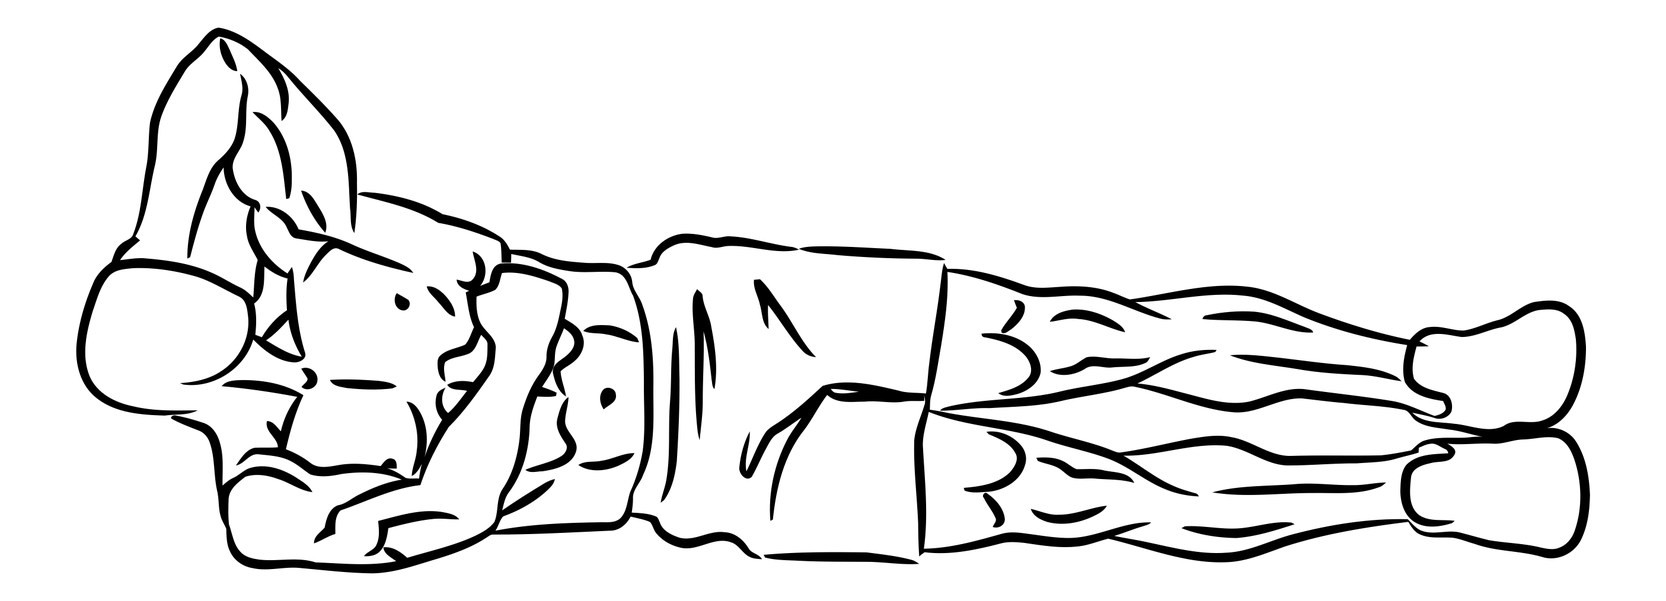
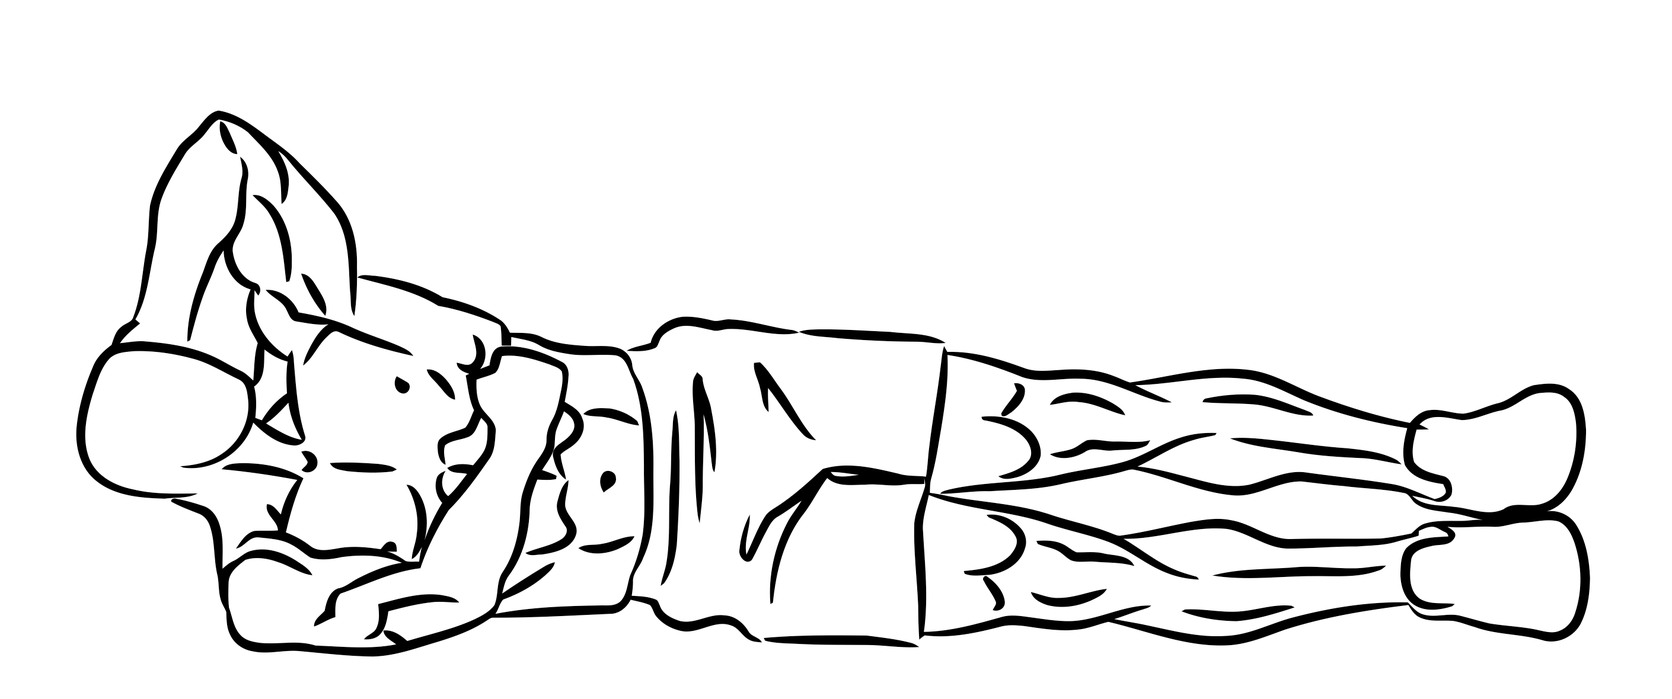
fix(technique): позы снова сменяются и помещаются в кадр

Changed region(s): [[0.031, 0.0305, 0.9598, 0.9773]]

diff --git a/src/content/technique.js b/src/content/technique.js
@@ -6,8 +6,7 @@
 //
 // Кадры — штриховые рисунки Everkinetic (CC BY-SA 4.0), хранятся в
 // public/technique/ (там же SOURCES.md с атрибуцией). Порядок кадров — по ходу
-// движения, подпись — поза на кадре. Для сопоставимых ракурсов кадры сменяются
-// мягким растворением. separatePoses оставляет обе фазы рядом.
+// движения, подпись — поза на кадре. Кадры сменяются мягким растворением.
 //
 // Мышцы — слаги lib/muscles.js. Состав и длины списков держит technique.test.js.
 // ============================================================================
@@ -24,8 +23,8 @@ const ek = (slug, a, b, extension = 'svg') => [
   { file: `${slug}-2.${extension}`, caption: b },
 ]
 
-// Отдельная версия URL обновляет только исправленные PNG в офлайн-кэше CacheFirst.
-const aligned = (slug, a, b) => ek(slug, a, b, 'png').map(frame => ({ ...frame, revision: 2 }))
+// Отдельная версия URL обновляет только исправленные кадры в офлайн-кэше CacheFirst.
+const aligned = (slug, a, b, extension = 'png') => ek(slug, a, b, extension).map(frame => ({ ...frame, revision: 2 }))
 
 export const TECHNIQUE = {
   'seated-dumbbell-press': {
@@ -127,8 +126,7 @@ export const TECHNIQUE = {
     primary: ['glute_max'],
     secondary: ['quads', 'adductors'],
     equipment: 'Одна гантель',
-    separatePoses: true,
-    frames: ek('plie-squat', 'Ноги выпрямлены', 'Бёдра опущены', 'png'),
+    frames: ek('plie-squat', 'Ноги выпрямлены', 'Бёдра опущены'),
     steps: [
       'Поставьте ноги шире плеч и разверните носки наружу на удобный угол. Удерживайте гантель двумя руками между ног.',
       'Сгибая ноги, опустите таз между бёдрами. Колени направляйте туда же, куда носки.',
@@ -204,8 +202,7 @@ export const TECHNIQUE = {
     primary: ['glute_med'],
     secondary: [],
     equipment: 'Коврик',
-    separatePoses: true,
-    frames: ek('side-lying-leg-raise', 'Ноги вместе', 'Верхняя нога поднята', 'png'),
+    frames: aligned('side-lying-leg-raise', 'Ноги вместе', 'Верхняя нога поднята'),
     steps: [
       'Лягте на бок и удобно поддержите голову. Выпрямите ноги, расположите плечи и таз друг над другом.',
       'Плавно поднимите верхнюю ногу в сторону, сохраняя таз неподвижным.',
@@ -1359,7 +1356,6 @@ export const TECHNIQUE = {
     primary: ['glute_max'],
     secondary: ['hamstrings'],
     equipment: 'Нижний блок кроссовера, манжета на лодыжку',
-    separatePoses: true,
     frames: ek('cable-kickback', 'Ноги вместе', 'Нога отведена'),
     steps: [
       'Наденьте манжету, встаньте лицом к блоку, держитесь за стойку.',
@@ -1477,8 +1473,7 @@ export const TECHNIQUE = {
     primary: ['core'],
     secondary: ['abs_rectus', 'lats'],
     equipment: 'Ролик для пресса (на рисунке — штанга с блинами, движение то же)',
-    separatePoses: true,
-    frames: ek('ab-rollout', 'На коленях', 'Тело вытянуто'),
+    frames: aligned('ab-rollout', 'На коленях', 'Тело вытянуто', 'svg'),
     steps: [
       'Встаньте на колени, ролик под плечами на прямых руках.',
       'Напрягите пресс и катите ролик вперед, вытягиваясь.',

diff --git a/e2e/technique.spec.js b/e2e/technique.spec.js
@@ -4,6 +4,7 @@ import { enterPin } from './helpers.js'
 // Координаты неподвижных деталей на сцене 320 × 224. Цвет и толщина штриха
 // слегка различаются между позами, поэтому допускаем один пиксель вокруг линии.
 const anchors = {
+  'plie-squat': [107, 204, 225, 222], // стопы в обеих полных фазах
   'standing-barbell-press': [134, 172, 198, 223], // стопы
   'seated-dumbbell-press': [101, 165, 223, 222], // низ скамьи и стопы
   'machine-shoulder-press': [94, 157, 237, 222],
@@ -151,4 +152,47 @@ test('подсказка по технике: карточка и пикер, д
   await expect(picker.getByPlaceholder('Поиск по названию…')).toHaveValue('жим лежа')
   await picker.getByRole('button', { name: 'закрыть' }).click()
   await expect(page.locator('.exercise-card')).toHaveCount(1)
+})
+
+test('на мобильном обе фазы плие целиком помещаются в область показа', async ({ page, context }) => {
+  await page.setViewportSize({ width: 393, height: 793 })
+  await context.route(/supabase\.co/, route => route.abort())
+  await page.goto('/kachalka-app/')
+  const name = 'Приседания плие'
+  const user = await page.evaluate(async name => {
+    const { seedE2E } = await import('/kachalka-app/src/test/e2eSeed.js')
+    const exercise = { id: 'e2e-plie', name, muscle_group: 'ноги', metric: 'weight' }
+    const user = await seedE2E({ exercises: [exercise] })
+    const { writeDraft } = await import('/kachalka-app/src/lib/draftStore.js')
+    writeDraft(`workout_draft_new_${user.id}`, [{ exercise, sets: [{ weight: 10, reps: 5, _k: 's1' }] }])
+    return user
+  }, name)
+  await page.reload()
+  await page.getByRole('button', { name: user.name }).click()
+  await enterPin(page, user.pin)
+  await page.getByRole('button', { name: 'Записать тренировку' }).click()
+
+  for (const preference of ['no-preference', 'reduce']) {
+    await page.emulateMedia({ reducedMotion: preference })
+    await page.getByRole('button', { name: 'Как выполнять: ' + name }).click()
+    const sheet = page.getByRole('dialog', { name })
+    if (preference === 'no-preference') {
+      await expect(sheet.getByRole('img', { name: /Бёдра опущены/ })).toBeVisible()
+      await sheet.getByRole('button', { name: 'Остановить смену кадров' }).click()
+    }
+    const frames = sheet.locator('.technique-paper img')
+    await expect(frames).toHaveCount(2)
+    for (const img of await frames.all()) {
+      const fits = await img.evaluate(async img => {
+        await img.decode()
+        const box = img.getBoundingClientRect()
+        const paper = img.parentElement.getBoundingClientRect()
+        return box.width > 0 && box.height > 0 && box.top >= paper.top && box.left >= paper.left
+          && box.bottom <= paper.bottom + 1 && box.right <= paper.right + 1
+          && getComputedStyle(img).objectFit === 'contain'
+      })
+      expect(fits).toBe(true)
+    }
+    await sheet.getByRole('button', { name: 'закрыть' }).click()
+  }
 })

diff --git a/landing/quick-start/index.html b/landing/quick-start/index.html
@@ -130,7 +130,7 @@
           <h3>Как выполнять упражнение</h3>
           <p>В справочнике тренировки слева от названия упражнения и в открытой карточке тренировки сразу за названием есть кнопка <strong>«i»</strong> — она открывает подсказку: рисунки начала и конца движения, какие мышцы работают и что нужно, шаги, на что обратить внимание и частые ошибки. Рисунки сменяют друг друга сами; кнопкой справа их можно остановить, а нажатием на подпись — выбрать нужную позу. Подсказка ничего не меняет в тренировке: закрой ее — и продолжай с того же места.</p>
           <p>В общем справочнике есть 73 карточки с подсказками. Например, у балансборда описаны стойка и мышцы, которые помогают удерживать равновесие. Текст открывается и без интернета, рисунки — после первого просмотра с сетью.</p>
-          <p><strong>Источники рисунков.</strong> Рисунки в подсказках — проект Everkinetic (автор Greg Priday), github.com/everkinetic/data, по лицензии Creative Commons BY-SA 4.0 (creativecommons.org/licenses/by-sa/4.0). В движущихся парах позы выровнены по опоре. Если ракурсы различаются или опора не видна, обе позы показаны рядом. У гакк-приседаний кадры повёрнуты, чтобы показать наклон салазок. Тексты подсказок написаны для kachalka-app.</p>
+          <p><strong>Источники рисунков.</strong> Рисунки в подсказках — проект Everkinetic (автор Greg Priday), github.com/everkinetic/data, по лицензии Creative Commons BY-SA 4.0 (creativecommons.org/licenses/by-sa/4.0). В движущихся парах позы выровнены по опоре. При включенной настройке «Уменьшение движения» обе позы показаны рядом. У гакк-приседаний кадры повёрнуты, чтобы показать наклон салазок. Тексты подсказок написаны для kachalka-app.</p>
           <h3>Запись подходов</h3>
           <p>Во время тренировки kachalka-app показывает предыдущие результаты и может предложить нагрузку на сегодня.</p>
           <p>Автопрогрессия умеет работать по нескольким стратегиям:</p>

diff --git a/src/components/exercises/TechniqueSheet.test.jsx b/src/components/exercises/TechniqueSheet.test.jsx
@@ -86,18 +86,22 @@ describe('TechniqueSheet', () => {
     expect(await screen.findByAltText('Жим лежа со штангой: Руки выпрямлены')).toBeInTheDocument()
     expect(screen.getByAltText('Жим лежа со штангой: Гриф у груди')).toBeInTheDocument()
     expect(screen.queryByRole('button', { name: /смену кадров/ })).toBeNull()
-  })
-
-  it('позы с разным ракурсом показаны рядом и при обычных настройках движения', async () => {
-    mockReducedMotion(false)
-    render(<TechniqueSheet slug="ab-rollout" name="Ролик" onClose={vi.fn()} />)
-    expect(await screen.findByAltText('Ролик: На коленях')).toBeInTheDocument()
-    expect(screen.getByAltText('Ролик: Тело вытянуто')).toBeInTheDocument()
-    expect(screen.queryByRole('button', { name: /смену кадров/ })).toBeNull()
-    fireEvent.error(screen.getByAltText('Ролик: Тело вытянуто'))
+    fireEvent.error(screen.getByAltText('Жим лежа со штангой: Гриф у груди'))
     expect(screen.queryByRole('img')).toBeNull()
     expect(screen.getByText('Частые ошибки')).toBeInTheDocument()
   })
+
+  it.each(['ab-rollout', 'side-lying-leg-raise', 'cable-kickback', 'plie-squat'])(
+    '%s показывает обе фазы по очереди', async (slug) => {
+      mockReducedMotion(false)
+      vi.useFakeTimers({ toFake: ['setInterval', 'clearInterval'] })
+      render(<TechniqueSheet slug={slug} name={slug} onClose={vi.fn()} />)
+      await screen.findByRole('button', { name: 'Остановить смену кадров' })
+      const first = screen.getByRole('img').getAttribute('src')
+      await act(async () => { vi.advanceTimersByTime(1200) })
+      expect(screen.getByRole('img').getAttribute('src')).not.toBe(first)
+    },
+  )
 
   it('кадр не загрузился — блок кадров пропадает, текст остается', async () => {
     mockReducedMotion(false)

diff --git a/src/components/exercises/TechniqueSheet.jsx b/src/components/exercises/TechniqueSheet.jsx
@@ -46,7 +46,7 @@ export default function TechniqueSheet({ slug, name, onClose }) {
         )}
         {card && (
           <>
-            {card.frames.length > 0 && <TechniqueFrames frames={card.frames} name={name} separatePoses={card.separatePoses} />}
+            {card.frames.length > 0 && <TechniqueFrames frames={card.frames} name={name} />}
 
             <section className="technique-sec">
               <h3>Мышцы и оборудование</h3>
@@ -122,23 +122,22 @@ function prefersReducedMotion() {
 // Два кадра «по ходу движения» с одного ракурса: смена — мягким растворением
 // (index.css .technique-stage), с подписью позы. При reduced-motion — оба кадра рядом,
 // без смены. Пауза останавливает смену; выбор позы — тоже пауза.
-function TechniqueFrames({ frames, name, separatePoses }) {
+function TechniqueFrames({ frames, name }) {
   const [reduced] = useState(prefersReducedMotion)
   const [idx, setIdx] = useState(0)
-  const staticView = reduced || separatePoses
-  const [playing, setPlaying] = useState(!staticView)
+  const [playing, setPlaying] = useState(!reduced)
   const [failed, setFailed] = useState(false)
   const base = import.meta.env.BASE_URL ?? '/'
 
   useEffect(() => {
-    if (!playing || staticView) return undefined
+    if (!playing || reduced) return undefined
     const t = setInterval(() => setIdx((i) => (i + 1) % frames.length), FRAME_MS)
     return () => clearInterval(t)
-  }, [playing, staticView, frames.length])
+  }, [playing, reduced, frames.length])
 
   if (failed) return null
 
-  if (staticView) {
+  if (reduced) {
     return (
       <div className="technique-frames technique-frames--static">
         {frames.map((f) => (

diff --git a/src/index.css b/src/index.css
@@ -4886,8 +4886,8 @@ img.has-img, .avatar-lightbox-img { -webkit-touch-callout: none; -webkit-user-dr
   flex: none; width: 44px; height: 44px; display: grid; place-items: center;
   border: 0; border-radius: var(--r-md); background: var(--surface-2); color: var(--text); cursor: pointer;
 }
-.technique-frames--static { display: grid; grid-template-columns: 1fr 1fr; gap: 8px; }
-.technique-frames--static .technique-paper { height: 180px; padding: 6px; }
+.technique-frames--static { display: grid; grid-template-columns: repeat(2, minmax(0, 1fr)); gap: 8px; }
+.technique-frames--static .technique-paper { height: 180px; padding: 6px; grid-template: minmax(0, 1fr) / minmax(0, 1fr); }
 .technique-frame-fig { margin: 0; display: flex; flex-direction: column; gap: 4px; text-align: center; }
 .technique-frame-fig figcaption { font-size: var(--fs-meta); }
 .technique-sec h3 { font-size: var(--fs-title); font-weight: var(--fw-strong); margin: 0 0 6px; }

diff --git a/src/content/whatsNew.js b/src/content/whatsNew.js
@@ -43,6 +43,7 @@ export const WHATS_NEW = [
         'Среди них тяга одной рукой, тяга к лицу и болгарские выпады',
         'У верхней тяги, бабочки и сгибания ног сидя появились кадры',
         'В зашагиваниях теперь виден полный подъём на тумбу',
+        'В плие видны стопы, а позы снова сменяют друг друга',
       ] },
     ],
     minor: [

diff --git a/public/technique/SOURCES.md b/public/technique/SOURCES.md
@@ -67,7 +67,7 @@ https://github.com/everkinetic/data, лицензия **CC BY-SA 4.0**
 | standing-barbell-press-1/2.png | файлы 767a/b | [Гриф у плеч](https://github.com/everkinetic/data/blob/446bb9a3d0c3beb6b84f7c9d77dfc8af707a2ab6/src/images-png-unknown/767a.svg.png) · [Гриф над головой](https://github.com/everkinetic/data/blob/446bb9a3d0c3beb6b84f7c9d77dfc8af707a2ab6/src/images-png-unknown/767b.svg.png) |
 | floor-glute-bridge-1/2.png | 0109 | [Таз на полу](https://github.com/everkinetic/data/blob/446bb9a3d0c3beb6b84f7c9d77dfc8af707a2ab6/src/images-web/bridging-1.png) · [Таз поднят](https://github.com/everkinetic/data/blob/446bb9a3d0c3beb6b84f7c9d77dfc8af707a2ab6/src/images-web/bridging-2.png) |
 | bulgarian-split-squat-1/2.png | 0147 | [Верхняя точка](https://github.com/everkinetic/data/blob/446bb9a3d0c3beb6b84f7c9d77dfc8af707a2ab6/src/images-web/one-leg-squat-with-barbell-1.png) · [Нижняя точка](https://github.com/everkinetic/data/blob/446bb9a3d0c3beb6b84f7c9d77dfc8af707a2ab6/src/images-web/one-leg-squat-with-barbell-2.png) |
-| plie-squat-1/2.png | 0152 | [Ноги выпрямлены](https://github.com/everkinetic/data/blob/446bb9a3d0c3beb6b84f7c9d77dfc8af707a2ab6/src/images-web/pile-squat-with-dumbbell-1.png) · [Бёдра опущены](https://github.com/everkinetic/data/blob/446bb9a3d0c3beb6b84f7c9d77dfc8af707a2ab6/src/images-web/pile-squat-with-dumbbell-2.png) |
+| plie-squat-1/2.svg | 0152 | [Ноги выпрямлены](https://github.com/everkinetic/data/blob/446bb9a3d0c3beb6b84f7c9d77dfc8af707a2ab6/dist/svg/0152-tension.svg) · [Бёдра опущены](https://github.com/everkinetic/data/blob/446bb9a3d0c3beb6b84f7c9d77dfc8af707a2ab6/dist/svg/0152-relaxation.svg) |
 | seated-overhead-extension-1/2.png | 0194 | [Гантель за головой](https://github.com/everkinetic/data/blob/446bb9a3d0c3beb6b84f7c9d77dfc8af707a2ab6/src/images-web/seated-triceps-press-with-dumbbell-1.png) · [Гантель над головой](https://github.com/everkinetic/data/blob/446bb9a3d0c3beb6b84f7c9d77dfc8af707a2ab6/src/images-web/seated-triceps-press-with-dumbbell-2.png) |
 | face-pull-1/2.png | файлы 327a/b | [Руки вытянуты](https://github.com/everkinetic/data/blob/446bb9a3d0c3beb6b84f7c9d77dfc8af707a2ab6/src/images-png-unknown/327a.svg.png) · [Канат у лица](https://github.com/everkinetic/data/blob/446bb9a3d0c3beb6b84f7c9d77dfc8af707a2ab6/src/images-png-unknown/327b.svg.png) |
 | hanging-leg-raise-1/2.png | файлы 753a/b | [Ноги опущены](https://github.com/everkinetic/data/blob/446bb9a3d0c3beb6b84f7c9d77dfc8af707a2ab6/src/images-png-unknown/753a.svg.png) · [Ноги подняты перед собой](https://github.com/everkinetic/data/blob/446bb9a3d0c3beb6b84f7c9d77dfc8af707a2ab6/src/images-png-unknown/753b.svg.png) |
@@ -81,6 +81,8 @@ https://github.com/everkinetic/data, лицензия **CC BY-SA 4.0**
 У жима Арнольда первый кадр поставляется как `arnold-press-1-aligned.png`. Рисунок сдвинут вниз на 78 пикселей внутри белого поля, чтобы скамья и стопы совпадали со второй позой. Адаптация распространяется по CC BY-SA 4.0.
 
 У 14 пар от 20.11.2026 изменены поля, масштаб и размещение оригиналов. Кадры сведены по неподвижной части рисунка. Это `seated-dumbbell-press`, `machine-shoulder-press`, `standing-barbell-press`, `floor-glute-bridge`, `bulgarian-split-squat`, `seated-overhead-extension`, `face-pull`, `hanging-leg-raise`, `standing-hip-abduction`, `lat-pulldown`, `pec-deck`, `seated-leg-curl`, `hack-squat` и `step-up`. Оба полных кадра гакк-приседаний дополнительно повёрнуты на 35° против часовой стрелки. Адаптации распространяются по CC BY-SA 4.0.
+
+У ролика увеличена высота обоих SVG и продолжен обрезанный контур блина и грифа во второй фазе. У махов ногой лежа изменены поля обоих PNG, чтобы опорная нога оставалась на месте. Адаптации распространяются по CC BY-SA 4.0.
 
 Номер `-1`/`-2` — порядок показа начала и конца выбранного движения.
 Изменил файл (цвет, обрезка) — отметь это здесь: изменённый файл тоже идёт под CC BY-SA 4.0.

diff --git a/docs/quick-start.md b/docs/quick-start.md
@@ -89,7 +89,7 @@ PIN проверяет сервер. Без интернета (или если 
 
 В общем справочнике есть 73 карточки с подсказками. Например, у балансборда описаны стойка и мышцы, которые помогают удерживать равновесие. Текст открывается и без интернета, рисунки — после первого просмотра с сетью.
 
-**Источники рисунков.** Рисунки в подсказках — проект Everkinetic (автор Greg Priday), github.com/everkinetic/data, по лицензии Creative Commons BY-SA 4.0 (creativecommons.org/licenses/by-sa/4.0). В движущихся парах позы выровнены по опоре. Если ракурсы различаются или опора не видна, обе позы показаны рядом. У гакк-приседаний кадры повёрнуты, чтобы показать наклон салазок. Тексты подсказок написаны для kachalka-app.
+**Источники рисунков.** Рисунки в подсказках — проект Everkinetic (автор Greg Priday), github.com/everkinetic/data, по лицензии Creative Commons BY-SA 4.0 (creativecommons.org/licenses/by-sa/4.0). В движущихся парах позы выровнены по опоре. При включенной настройке «Уменьшение движения» обе позы показаны рядом. У гакк-приседаний кадры повёрнуты, чтобы показать наклон салазок. Тексты подсказок написаны для kachalka-app.
 
 ### Запись подходов
 
